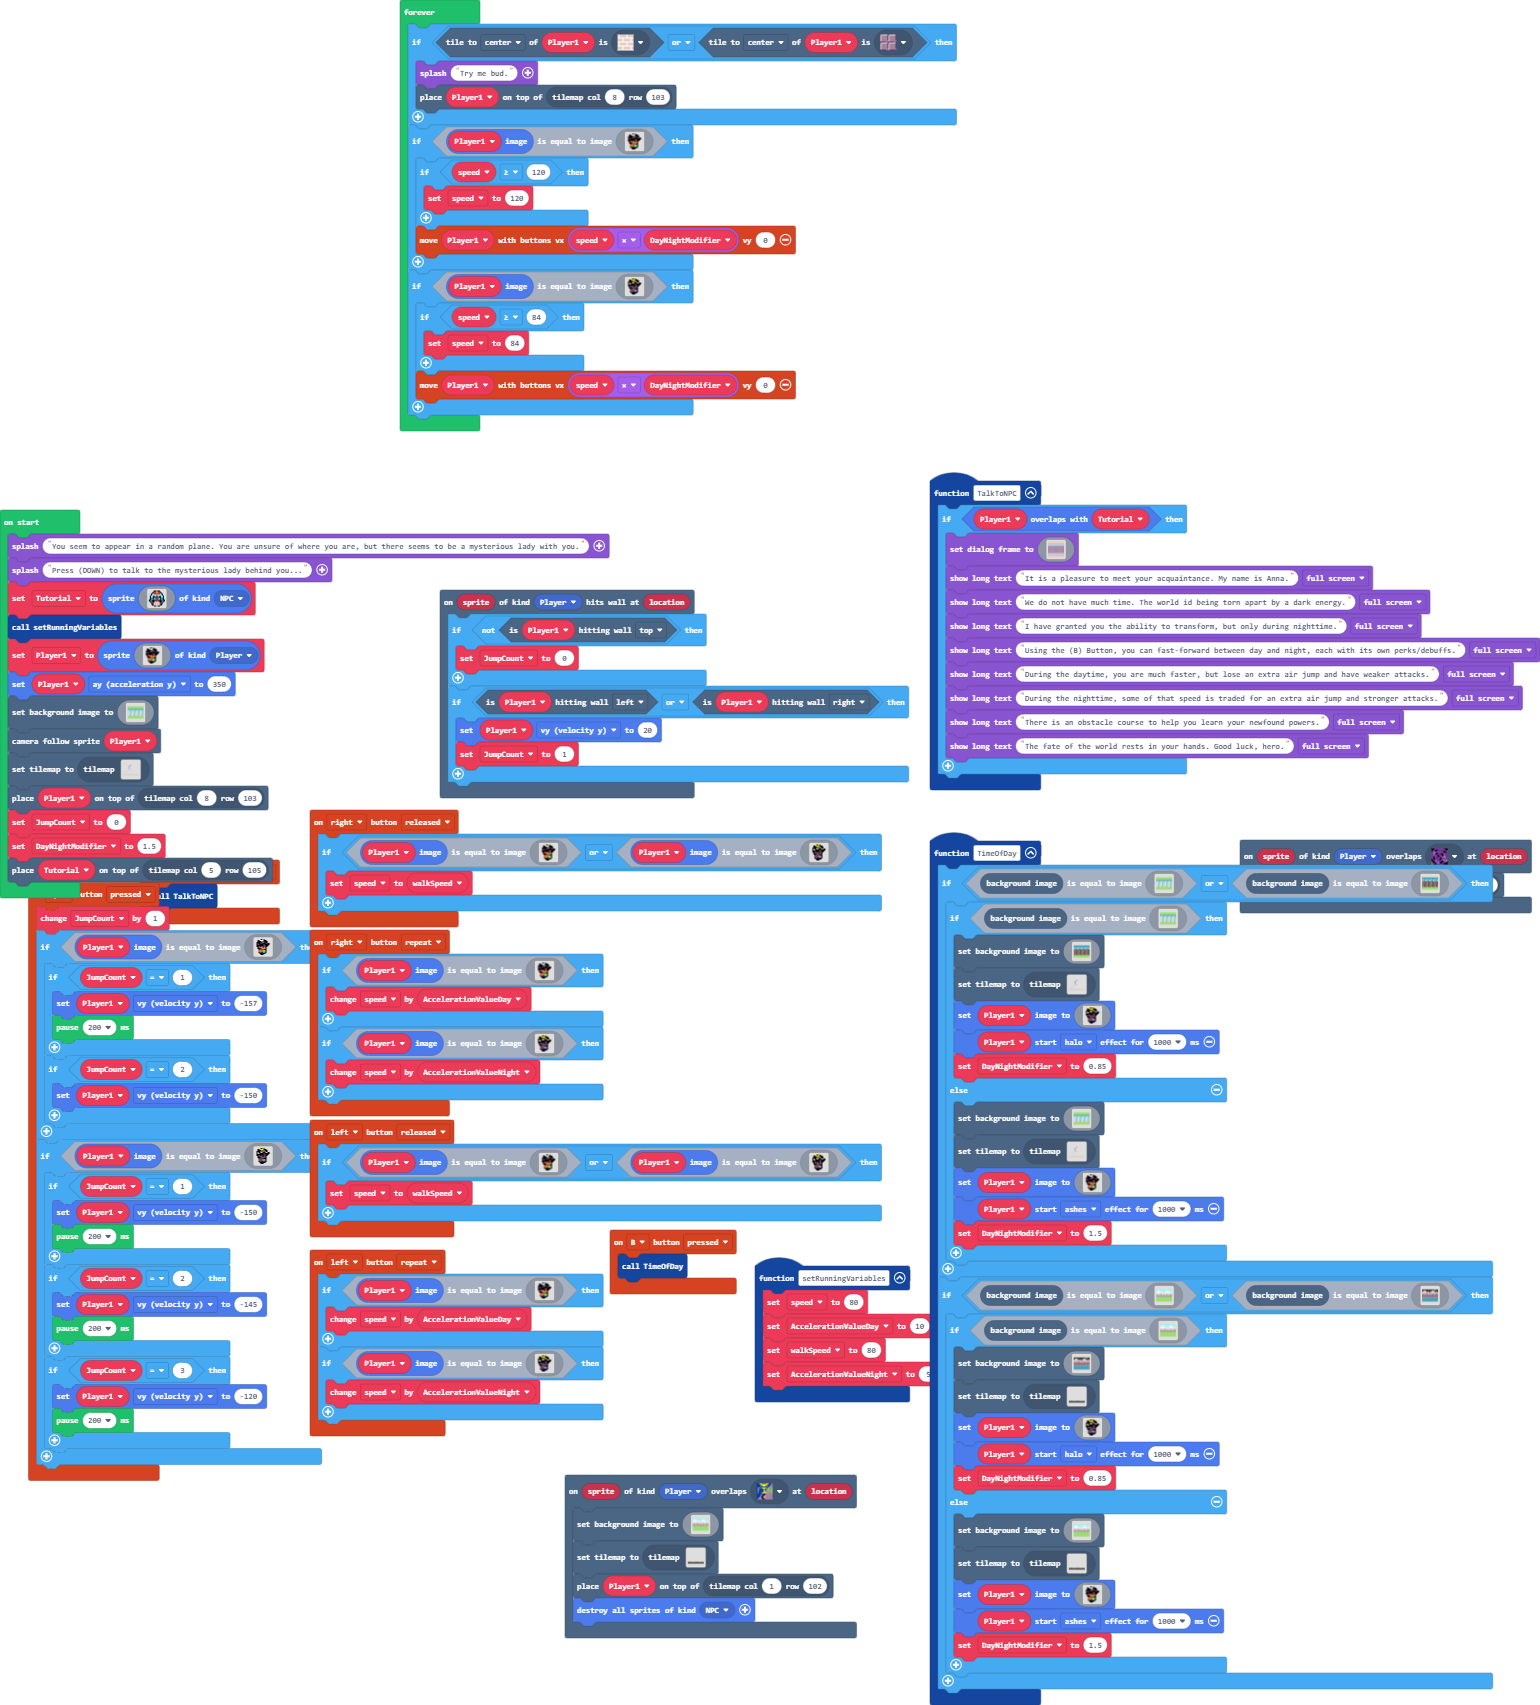
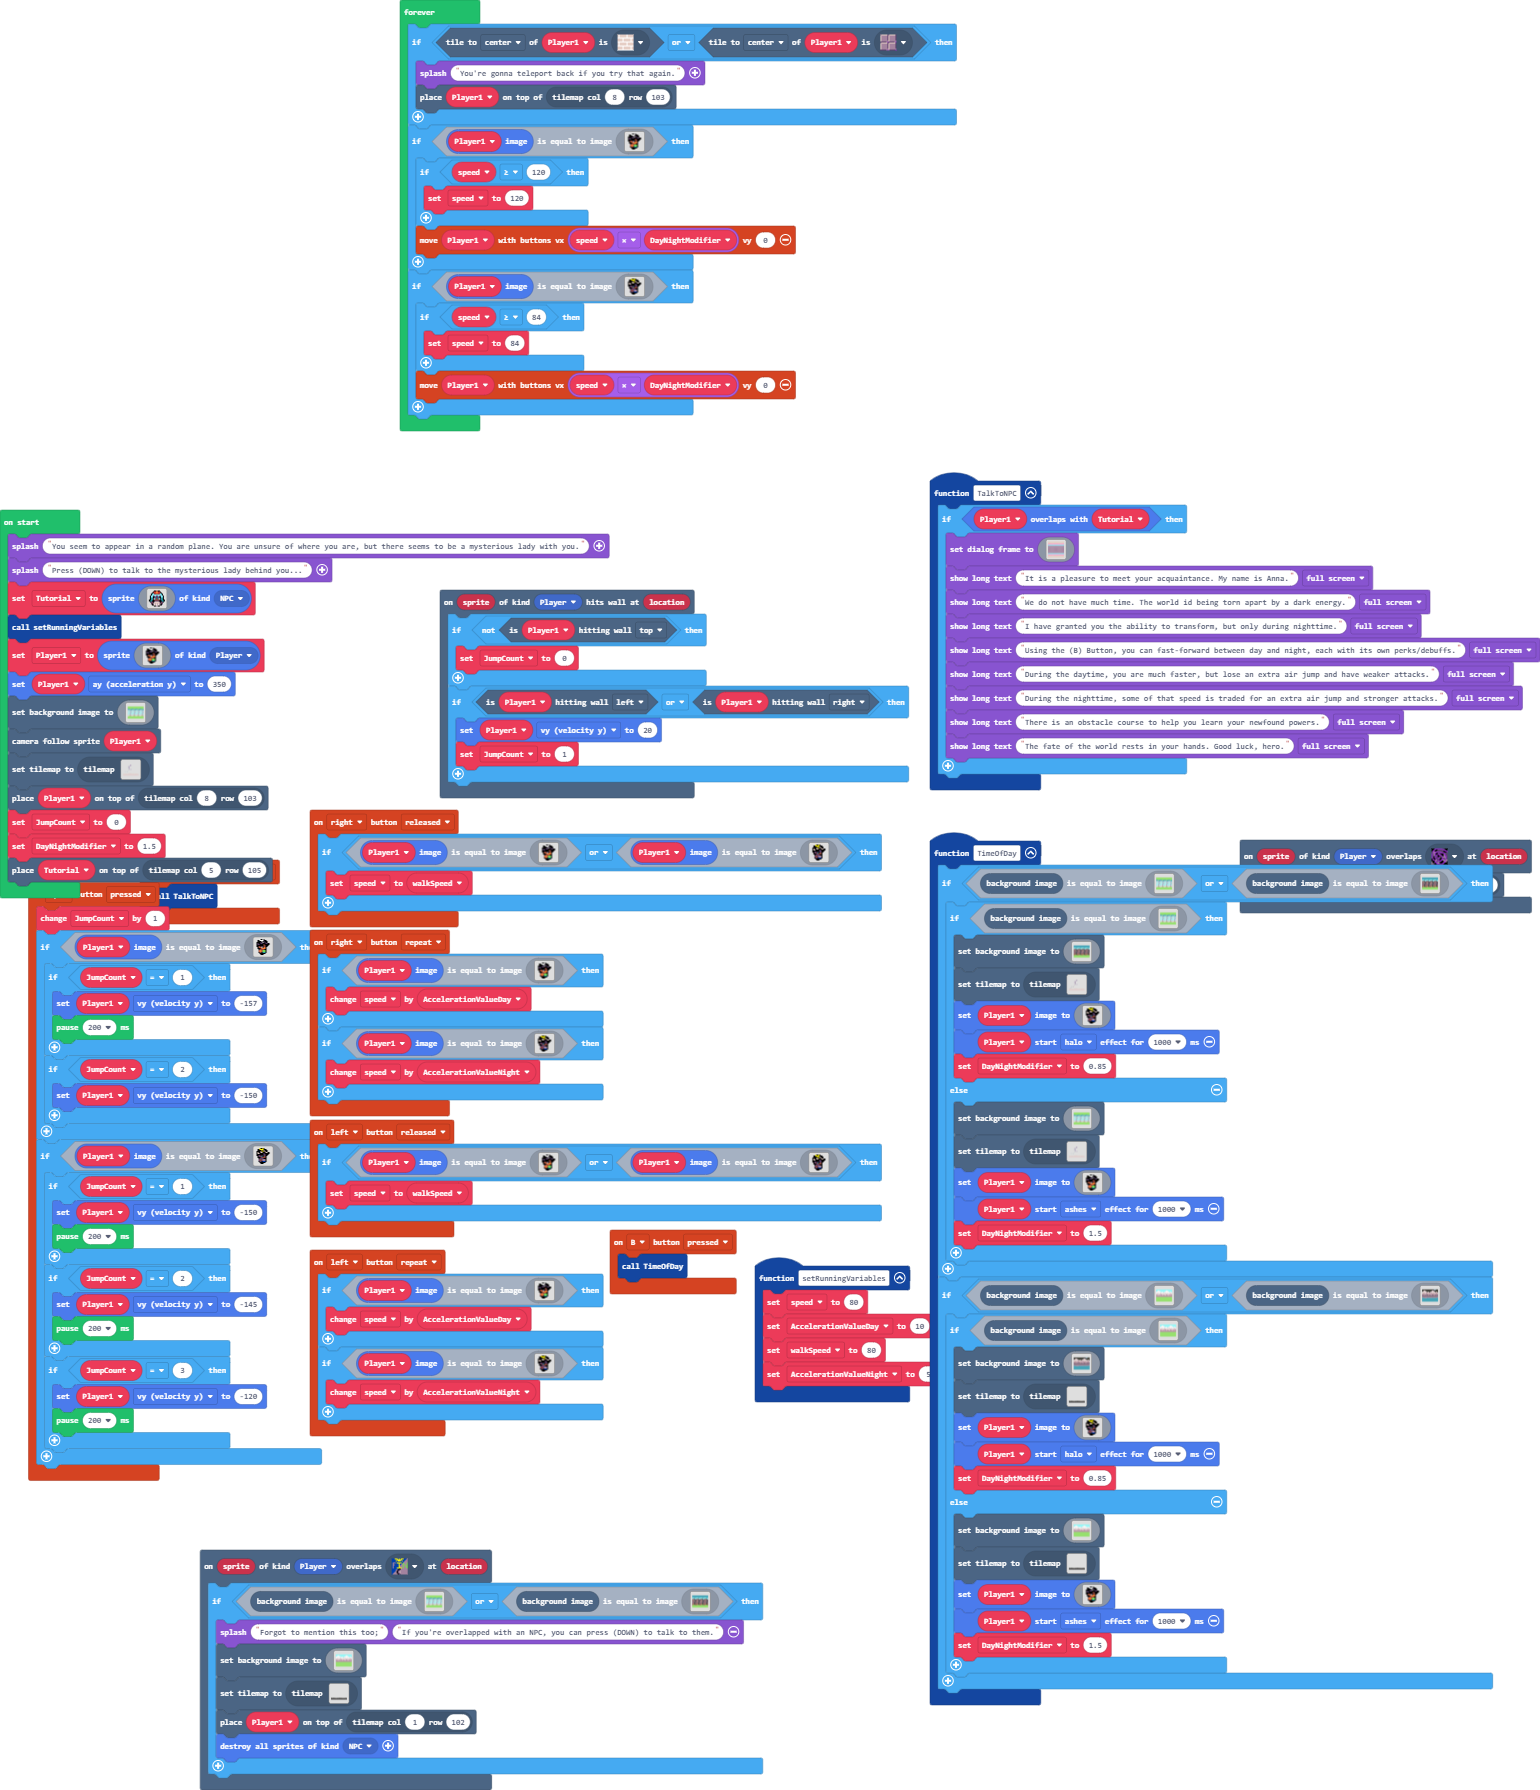
Update main.blocks, main.ts, tilemap.g.jres, tilemap.g.ts

diff --git a/tilemap.g.ts b/tilemap.g.ts
@@ -509,6 +509,44 @@ namespace myTiles {
 222.22222222222222222222222222222222222222222222222222..222222222222222222222222222222222222222222222222222222.22222222222.222222222222222222222222...2222222222
 222222222222222222222222222222.222222222222222222222222222222222222222222222222222222222222222222222222222222222222222222222222222222222222222222222222222222222
 `, [myTiles.transparency16,sprites.castle.tilePath2,sprites.builtin.forestTiles29,sprites.builtin.forestTiles6,sprites.builtin.forestTiles10], TileScale.Sixteen);
+            case "level3":
+            case "level3":return tiles.createTilemap(hex`1000100000000000000000000000000000000000000000000000000000000000000000000000000000000000000000000000000000000000000000000000000000000000000000000000000000000000000000000000000000000000000000000000000000000000000000000000000000000000000000000000000000000000000000000000000000000000000000000000000000000000000000000000000000000000000000000000000000000000000000000000000000000000000000000000000000000000000000000000000000000000000000000000000000000000000000000000000000000000000000000000000000000000000000000000000000000000`, img`
+. . . . . . . . . . . . . . . . 
+. . . . . . . . . . . . . . . . 
+. . . . . . . . . . . . . . . . 
+. . . . . . . . . . . . . . . . 
+. . . . . . . . . . . . . . . . 
+. . . . . . . . . . . . . . . . 
+. . . . . . . . . . . . . . . . 
+. . . . . . . . . . . . . . . . 
+. . . . . . . . . . . . . . . . 
+. . . . . . . . . . . . . . . . 
+. . . . . . . . . . . . . . . . 
+. . . . . . . . . . . . . . . . 
+. . . . . . . . . . . . . . . . 
+. . . . . . . . . . . . . . . . 
+. . . . . . . . . . . . . . . . 
+. . . . . . . . . . . . . . . . 
+`, [myTiles.transparency16], TileScale.Sixteen);
+            case "level4":
+            case "level4":return tiles.createTilemap(hex`1000100000000000000000000000000000000000000000000000000000000000000000000000000000000000000000000000000000000000000000000000000000000000000000000000000000000000000000000000000000000000000000000000000000000000000000000000000000000000000000000000000000000000000000000000000000000000000000000000000000000000000000000000000000000000000000000000000000000000000000000000000000000000000000000000000000000000000000000000000000000000000000000000000000000000000000000000000000000000000000000000000000000000000000000000000000000000`, img`
+. . . . . . . . . . . . . . . . 
+. . . . . . . . . . . . . . . . 
+. . . . . . . . . . . . . . . . 
+. . . . . . . . . . . . . . . . 
+. . . . . . . . . . . . . . . . 
+. . . . . . . . . . . . . . . . 
+. . . . . . . . . . . . . . . . 
+. . . . . . . . . . . . . . . . 
+. . . . . . . . . . . . . . . . 
+. . . . . . . . . . . . . . . . 
+. . . . . . . . . . . . . . . . 
+. . . . . . . . . . . . . . . . 
+. . . . . . . . . . . . . . . . 
+. . . . . . . . . . . . . . . . 
+. . . . . . . . . . . . . . . . 
+. . . . . . . . . . . . . . . . 
+`, [myTiles.transparency16], TileScale.Sixteen);
         }
         return null;
     })

diff --git a/main.ts b/main.ts
@@ -80,10 +80,13 @@ controller.right.onEvent(ControllerButtonEvent.Repeated, function () {
     }
 })
 scene.onOverlapTile(SpriteKind.Player, assets.tile`GoalTile`, function (sprite, location) {
-    scene.setBackgroundImage(assets.image`Level1FGBG`)
-    tiles.setCurrentTilemap(tilemap`Level 1 - Day`)
-    tiles.placeOnTile(Player1, tiles.getTileLocation(1, 102))
-    sprites.destroyAllSpritesOfKind(SpriteKind.NPC)
+    if (scene.backgroundImage().equals(assets.image`ForegroundBG`) || scene.backgroundImage().equals(assets.image`BackgroundBG`)) {
+        game.splash("Forgot to mention this too;", "If you're overlapped with an NPC, you can press (DOWN) to talk to them.")
+        scene.setBackgroundImage(assets.image`Level1FGBG`)
+        tiles.setCurrentTilemap(tilemap`Level 1 - Day`)
+        tiles.placeOnTile(Player1, tiles.getTileLocation(1, 102))
+        sprites.destroyAllSpritesOfKind(SpriteKind.NPC)
+    }
 })
 controller.right.onEvent(ControllerButtonEvent.Released, function () {
     if (Player1.image.equals(assets.image`IdleDay1`) || Player1.image.equals(assets.image`IdleNight1`)) {
@@ -151,7 +154,7 @@ DayNightModifier = 1.5
 tiles.placeOnTile(Tutorial, tiles.getTileLocation(5, 105))
 forever(function () {
     if (Player1.tileKindAt(TileDirection.Center, sprites.builtin.brick) || Player1.tileKindAt(TileDirection.Center, sprites.dungeon.floorDark0)) {
-        game.splash("Try me bud.")
+        game.splash("You're gonna teleport back if you try that again.")
         tiles.placeOnTile(Player1, tiles.getTileLocation(8, 103))
     }
     if (Player1.image.equals(assets.image`IdleDay1`)) {
